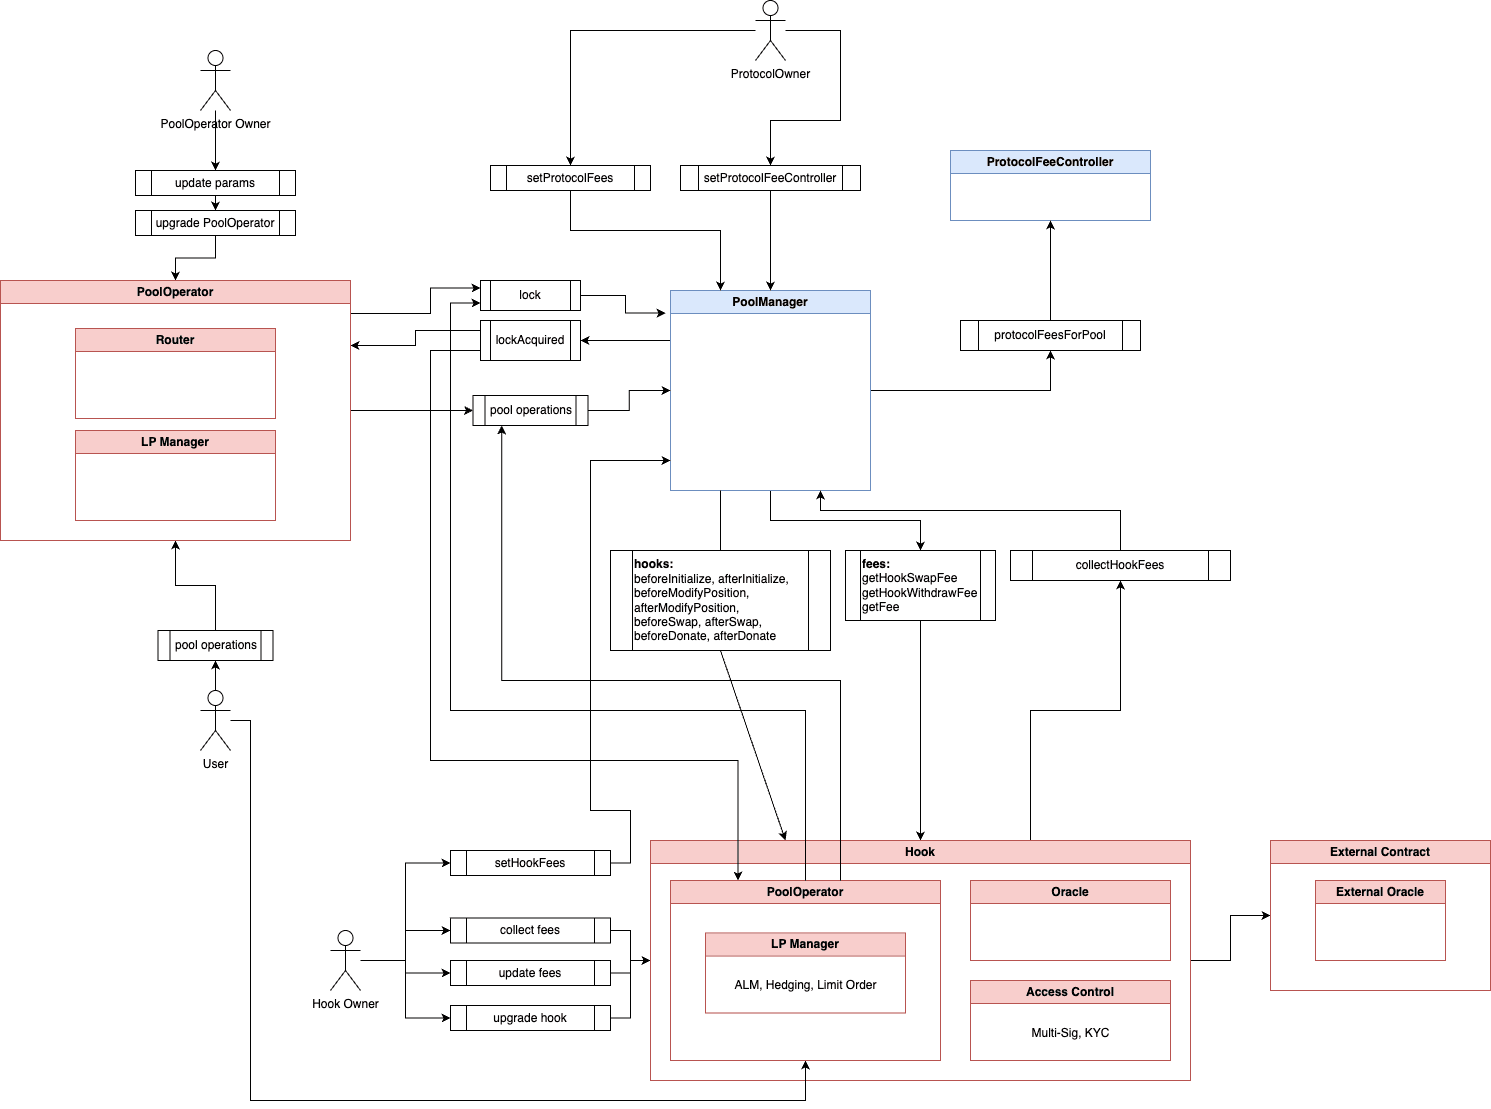
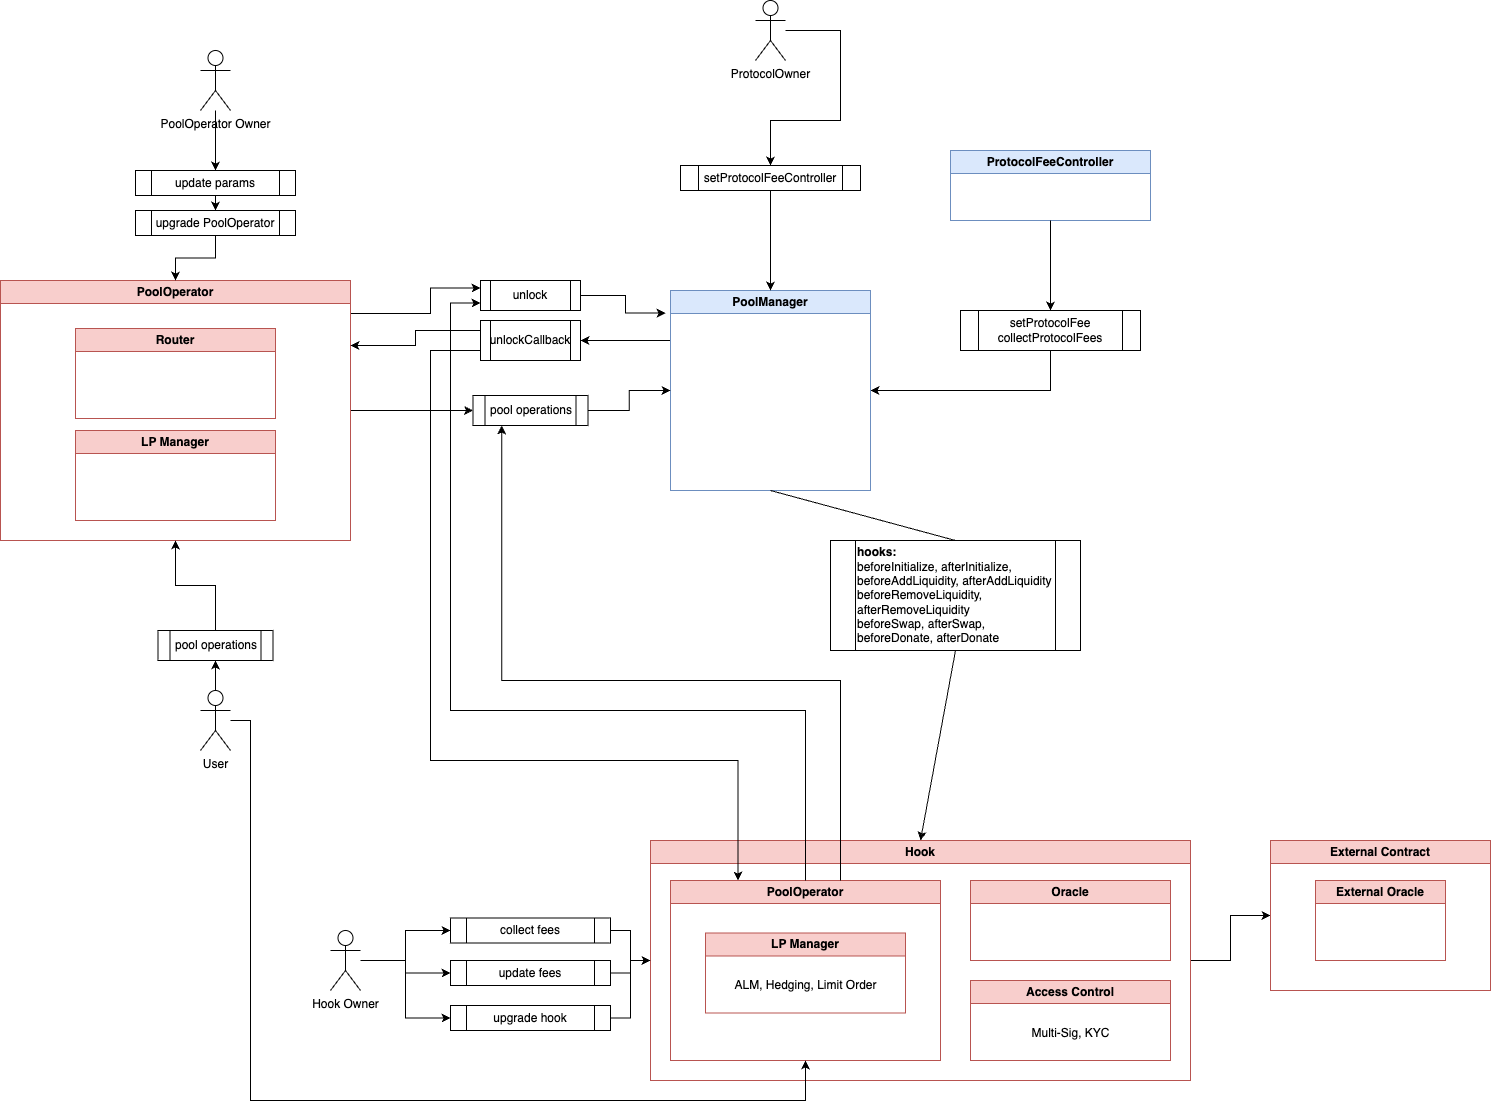
Merge pull request #17 from ComposableSecurity/ComposableSecurityTeam-patch-1
Update 0x209-C9-Uniswap-V4-Hook.md

Pull request: Update 0x209-C9-Uniswap-V4-Hook.md

diff --git a/2.0/0x200-Components/0x209-C9-Uniswap-V4-Hook.md b/2.0/0x200-Components/0x209-C9-Uniswap-V4-Hook.md
@@ -28,56 +28,67 @@ Here's a clear breakdown of the interaction flow:
 
 1. **User Interaction with PoolOperator**: Users now interact with the PoolOperator contract to initiate transactions.
 2. **PoolOperator with PoolManager Interaction**: The PoolOperator facilitates operations on the PoolManager. This interaction is a bit more complex than before.
-3. **Callback Requirement**: For the process to complete, the PoolManager requires a callback to the `lockAcquired` function in the PoolOperator. After this callback, the PoolOperator gains the ability to execute specific functions on the PoolManager, like `swap` or `modifyPosition`.
-4. **Role of hooks**: Hooks are versatile. The architecture includes "hooks." They are called before and after the operations executed by PoolOperator. Hooks can also have user-invoked functions, allowing them to act as PoolOperators.
+3. **Callback Requirement**: For the process to complete, the PoolManager requires a callback to the `unlockCallback` function in the PoolOperator. After this callback, the PoolOperator gains the ability to execute specific functions on the PoolManager, like `swap` or `modifyPosition`.
+4. **Role of hooks**: Hooks are versatile. The architecture includes "hooks". They are called before and after the operations executed by PoolOperator. Hooks can also have user-invoked functions, allowing them to act as PoolOperators.
 
 ## Security Verification Requirements
 
 | # | Description |
 | --- | --- |
-| **C9.1** | Verify that all used hooks are configured in the hook.  |
-| **C9.2** | Verify that `validateHookPermissions` correctly verifies used hooks and permissions. |
-| **C9.3** | Verify that the operations are performed in the correct hooks (e.g. usually data update for oracle should be in afterSwap and not beforeSwap). |
-| **C9.4** | Verify that the constructor parameters of the hook are valid and do not lead to lock of funds later. |
-| **C9.5** | Verify that the initialization data of the hook is correctly validated and do not lead to lock of funds later. |
-| **C9.6** | Verify that the hook prevents overflows or underflows in calculations. |
-| **C9.7** | Verify that the hook provides consistent results for the same swaps (predictable routing) irrespective of the caller or other non-liquidity state changes. |
-| **C9.8** | Verify that the hook is not upgradeable. If explicitly specified otherwise, make sure the hook contract upgrade is a long-time process (DAO voting or Multi-sig with Timelock) and allows users to familiarize themselves with the changes and possible decisions about to withdraw their liquidity. |
-| **C9.9** | Verify that the hook, acting as a proxy holding user funds, cannot be upgraded to add a withdrawal function that transfers out all funds. |
-| **C9.10** | Verify that the hook, as a proxy, cannot be upgraded to a non-working implementation that reverts on legitimate calls. |
-| **C9.11** | Verify that the hook, as PoolOperator, lacks backdoors allowing unauthorized withdrawals of funds. |
-| **C9.12** | Verify that the hook cannot set high dynamic fees by front-running the user. |
-| **C9.13** | Verify that the hook cannot set high withdrawal fees by front-running the withdrawal. |
-| **C9.14** | Verify that the hook has no special administrative functions (if explicitly specified otherwise, make sure the privileged roles cannot make immediate, drastic changes to its functionality). |
-| **C9.15** | Verify that the hook allows only the PoolManager to call `lockAcquired`. |
-| **C9.16** | Verify that users cannot directly call functions called by `lockAcquired` internally on the PoolOperator. |
-| **C9.17** | Verify that hook functions can be called only by the PoolManager directly. |
-| **C9.18** | Verify that it was considered that the hook can be used and initialized by multiple pools. <br />* If you want the hook to be used and initialized only by one pool, make sure you require that in the `beforeInitialize` function. |
-| **C9.19** | Verify that, if the hook contract is also PoolOperator and assumes that its user-invoked operations will always call the hook functions, it reverts user operations executed on the pools without this hook assigned. |
-| **C9.20** | Verify that, if the hook contract is also PoolOperator and manages liquidity in the pool through its user-invoked functions, it reverts user operations executed via other PoolOperators on its pools. |
-| **C9.21** | Verify safeguards against creating fake pools, assigning them to the hook, and misleading the hook to operate on malicious pools, preventing funds theft. |
-| **C9.22** | Verify that there is no possibility to override data in the hook through initialization of fake pools. |
-| **C9.23** | Verify that users cannot bypass business limits, such as liquidity withdrawal time locks. |
-| **C9.24** | Verify that the hook contract cannot revert in hooks due to a different reason than out-of-gas error. <br />* If you want the hook to revert in specific cases, make sure those cases are clearly specified in documentation and code (e.g. KYC). |
-| **C9.25** | Verify that the hook does not brick (start reverting irreversibly) on selected hooks after certain time or state changes. |
-| **C9.26** | Verify that all scenarios resulting in Denial of Service are addressed to prevent funds being locked or lost. |
-| **C9.27** | Verify the absence of unbound loops in the hook to prevent reaching gas consumption limits. |
-| **C9.28** | Verify that the hook does not perform a varying number of gas-consuming operations based on the caller. |
-| **C9.29** | Verify that the hook's gas consumption does not disincentivize users. |
-| **C9.30** | Verify that if some tokens are held on the hook, the user can withdraw them, even if the hook is blacklisted by PoolOperator who placed the funds. |
-| **C9.31** | Verify that a user, as Liquidity Provider, cannot withdraw other LPs' liquidity. |
-| **C9.32** | Verify that a user, as Liquidity Provider, cannot add and withdraw liquidity in the same transaction to misappropriate fees previously earned by other LPs. |
-| **C9.33** | Verify that values retrieved from external sources are validated if the hook is dependent on it. |
-| **C9.34** | Verify that external contracts do not consume excessive gas leading to the hook contract reverting. |
-| **C9.35** | Verify protection against external contracts returning malicious results that could lead to significant swap slippage. |
-| **C9.36** | Verify that external contract results are not used as price references for assets by the hook without adequate safeguards. |
-| **C9.37** | Verify that values returned by external contracts are not manipulable through direct calls. |
-| **C9.38** | Verify that the hook does not use `slot0` as a price oracle for critical business logic and calculations. |
-| **C9.39** | Verify that the PoolOperator does not use malicious routes during swaps, which could result in swapping legitimate tokens for fake ones. |
-| **C9.40** | Verify that the PoolOperator restricts high slippage during swaps. |
-| **C9.41** | Verify that the hook (as PoolOperator) accurately stores (e.g. uses mapping to store balances per user) user balances shared in the same pool position (NFT). |
-| **C9.42** | Verify that users cannot transfer others' funds by abusing approvals in PoolOperator. |
-| **C9.43** | Verify that the PoolOperator specifies the minimum output amounts that users should receive and ensures them. |
+| **C9.1** | Verify that all used hooks are configured in the hook. Use `validateHookPermissions` function from `Hooks` library to validate the hooks and address. |
+| **C9.2** | Verify that the constructor parameters of the hook are valid and do not lead to lock of funds later. |
+| **C9.3** | Verify that the initialization data of the hook is correctly validated and do not lead to lock of funds later. |
+| **C9.4** | Verify that the hook allows only the `PoolManager` to call `unlockCallback`. Use `BaseHook` abstract contract from `v4-periphery` to fullfil this requirement. |
+| **C9.5** | Verify that users cannot directly call functions called by `unlockCallback` internally on the `PoolOperator`. |
+| **C9.6** | Verify that hook functions can be called only by the `PoolManager` directly.  Use `BaseHook` abstract contract from `v4-periphery` and `onlyPoolManager` modifier to fullfil this requirement. |
+| **C9.7** | Verify that it was considered that the hook can be used and initialized by multiple pools. |
+| **C9.8** | Verify that, if the hook contract is also `PoolOperator` and other pool operators are not allowed to initiate operations on pools with the hook assigned, the hook functions revert. |
+| **C9.9** | Verify that there is no possibility to override data in the hook through initialization of malicious pools. |
+| **C9.10** | Verify safeguards against creating fake pools, assigning them to the hook, and misleading the hook to operate on malicious pools, preventing funds theft. |
+| **C9.11** | Verify that, if the hook contract is also `PoolOperator`, no bussiness logic is implemented in hook functions, because they are not called by `PoolManager` when the `PoolOperator` and the hook are the same contract. |
+| **C9.12** | Verify that if some tokens are held on the hook, the user can withdraw them, even if the hook is blacklisted by `PoolOperator` who placed the funds. |
+| **C9.13** | Verify that the hook does not treat the `sender` parameter in hook functions as the user performing action. User's address must be passed by the `PoolOperator` in hook data. |
+| **C9.14** | Verify that the hook accepts and handles hook data only from trusted `PoolOperator` to prevent from impersonating users performing actions on the pool. |
+| **C9.15** | Verify that a user, as Liquidity Provider, cannot withdraw other LPs' liquidity. |
+| **C9.16** | Verify that adding and withdrawing liquidity in the same transaction does not misappropriate fees previously earned by other LPs. |
+| **C9.17** | Verify that values retrieved from external sources are validated if the hook is dependent on it. |
+| **C9.18** | Verify that external contract results are not used as price references for assets by the hook without adequate safeguards. |
+| **C9.19** | Verify protection against external contracts returning malicious results that could lead to significant swap slippage. |
+| **C9.20** | Verify that values returned by external contracts are not manipulable through direct calls. |
+| **C9.21** | Verify that the hook does not use `slot0` as a price oracle for critical business logic and calculations. |
+| **C9.22** | Verify that the hook does not perform internal swaps using the spot price from any pool, including the currently used one, without security safeguards (e.g. minimum amount retrieved). |
+| **C9.23** | Verify that the `PoolOperator` restricts high slippage during swaps. |
+| **C9.24** | Verify that the operations are performed in the correct hooks (e.g. usually data update for oracle should be in `afterSwap` and not `beforeSwap`). |
+| **C9.25** | Verify that the hook (as `PoolOperator`) accurately stores (e.g. uses mapping to store balances per user) user balances shared in the same pool position (NFT). |
+| **C9.26** | Verify that users cannot transfer others' funds by abusing approvals in `PoolOperator`. |
+| **C9.27** | Verify that the `PoolOperator` specifies the minimum output amounts that users should receive and ensures them. |
+| **C9.28** | Verify that the hook provides consistent results for the same swaps (predictable routing) irrespective of the caller or other non-liquidity state changes. |
+| **C9.29** | Verify that the `PoolOperator` does not use malicious routes during swaps, which could result in swapping legitimate tokens for fake ones. |
+| **C9.30** | Verify that the hook prevents overflows or underflows in calculations. |
+| **C9.31** | Verify that users cannot bypass business limits, such as liquidity withdrawal time locks. |
+
+### Denial of Service 
+
+| # | Description |
+| --- | --- |
+| **C9.DoS.1** | Verify that the hook contract cannot revert in hooks due to a different reason than out-of-gas error. <br />* If you want the hook to revert in specific cases, make sure those cases are clearly specified in documentation and code (e.g. KYC). |
+| **C9.DoS.2** | Verify that the hook does not brick (start reverting irreversibly, leading to Denial of Service) on selected hooks after certain time or state changes. |
+| **C9.DoS.3** | Verify that all scenarios resulting in Denial of Service are addressed to prevent funds being locked or lost. |
+| **C9.DoS.4** | Verify that the hook does not perform a varying number of gas-consuming operations based on the caller or user. |
+| **C9.DoS.5** | Verify that the hook's gas consumption does not disincentivize users. |
+| **C9.DoS.6** | Verify that external contracts do not consume excessive gas leading to the hook contract reverting. |
+| **C9.DoS.7** | Verify the absence of unbound loops in the hook to prevent reaching gas consumption limits. |
+| **C9.DoS.8** | Verify that the dynamic fee calculated and set by the hook never exceeds 100%, because it would make the `PoolManager` revert. |
+
+### Hook Governance 
+
+| # | Description |
+| --- | --- |
+| **C9.G.1** | Verify that the hook is not upgradeable. If explicitly specified otherwise, make sure the hook contract upgrade is a long-time process (DAO voting or Multi-sig with Timelock) and allows users to familiarize themselves with the changes and possible decisions about to withdraw their liquidity. |
+| **C9.G.2** | Verify that the hook, as `PoolOperator`, lacks backdoors allowing unauthorized withdrawals of funds. |
+| **C9.G.3** | Verify that the hook cannot set high dynamic fees by front-running the user. |
+| **C9.G.4** | Verify that the hook cannot set high withdrawal fees by front-running the withdrawal. |
+| **C9.G.5** | Verify that the hook has no special administrative functions (if explicitly specified otherwise, make sure the privileged roles cannot make immediate, drastic changes to its functionality). |
 
 ## References
 For more information, see also: